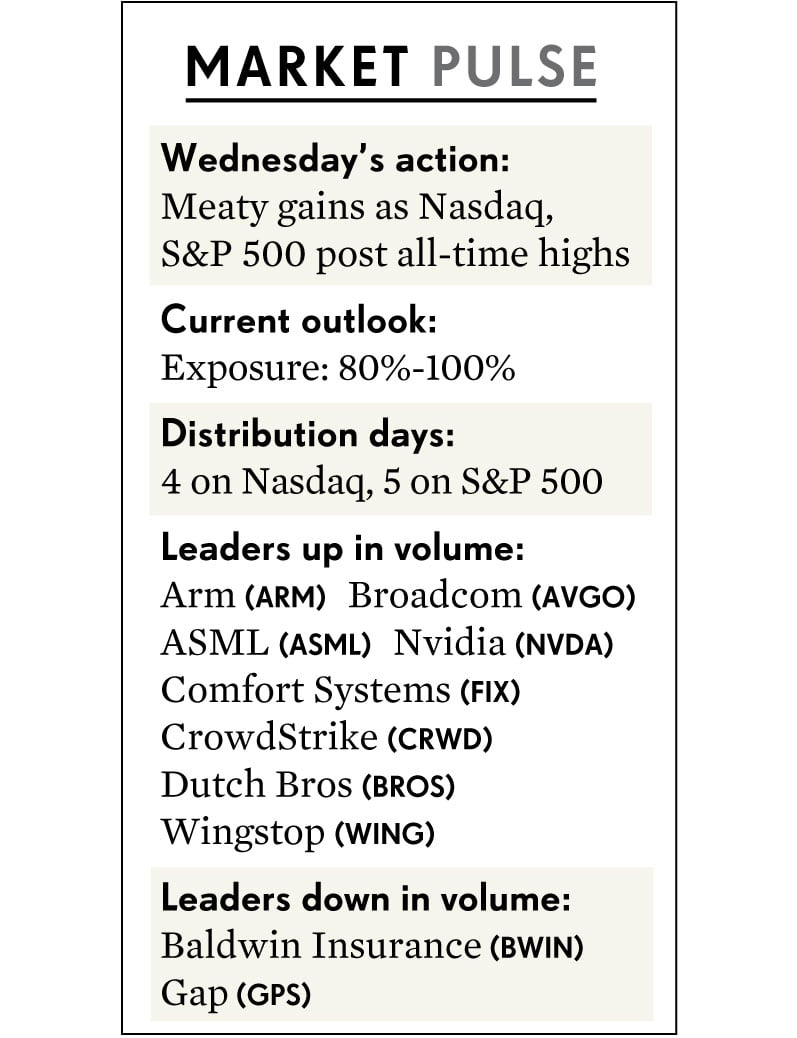
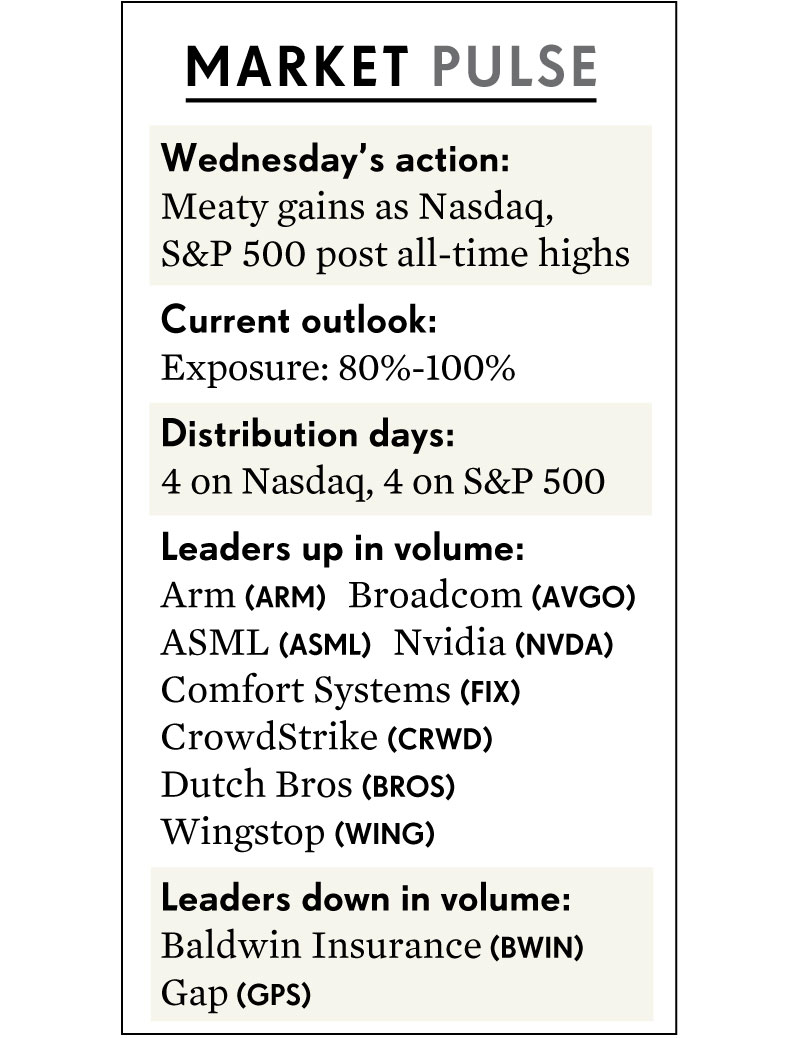
update

Changed region(s): [[0.4818, 0.4316, 0.7528, 0.4933]]

diff --git a/_columns/Stock_Of_the_Day/2024-06-06.md b/_columns/Stock_Of_the_Day/2024-06-06.md
@@ -1,0 +1,105 @@
+---
+layout: page
+title: >-
+  Chipotle, IBD Stock Of The Day, Flashes Buy Signal With Huge Split Ahead
+image: /assets/img/stock-of-the-day/2024-06-06.jpg
+date: 2024-06-06 17:01 -0700
+author: HARRISON MILLER
+---
+
+
+
+
+
+
+Chipotle stock is the [IBD Stock Of The Day](https://www.investors.com/research/ibd-stock-of-the-day/) for Thursday as it clears a trendline and extends a bounce from key support. Meanwhile, shareholders on Thursday are expected to approve a 50-for-1 stock split.
+
+
+
+
+**Chipotle Mexican Grill** ([CMG](https://research.investors.com/quote.aspx?symbol=CMG)) shareholders greenlit a 50-for-1 stock split at Thursday's annual meeting. The board of directors originally [announced the plan on March 19](https://ir.chipotle.com/2024-03-19-CHIPOTLE-BOARD-OF-DIRECTORS-APPROVES-50-FOR-1-STOCK-SPLIT) following its approval.
+
+
+CMG holders as of June 18 will receive 49 additional shares of Chipotle stock after market close on June 25. Chipotle stock will begin trading at a post-split basis on June 26.
+
+
+It will be Chipotle's first stock split in its 30-year history and one of the biggest splits in the history of the New York Stock Exchange. The NYSE's last 50-for-1 stock split was Berkshire Hathaway's all the way back in 2010, MarketWatch reported. Previously, Nasdaq-listed **Amazon.com** ([AMZN](https://research.investors.com/quote.aspx?symbol=AMZN)) completed a 20-for-1 split on June 6, 2022.
+
+
+[Stock splits](https://www.investors.com/how-to-invest/investors-corner/stock-splits-nvidia-amazon-stock-splits-benefit-or-hurt-a-stock/) spread the market value of a company across a greater number of shares, which results in a lower price point for the stock. The total market capitalization of the company remains unchanged after a stock split, but liquidity increases due to the issuance of more shares. A lower share price does make it easier to trade options.
+
+
+Chipotle Earnings, Outlook
+--------------------------
+
+
+Meanwhile, Chipotle will release second-quarter results on July 24, about a month after the split.
+
+
+FactSet analysts expect earnings growth to slow slightly after accelerating the last two quarters, with a 23% increase to $15.61 per share. Wall Street estimates sales jump 16% to $2.93 billion.
+
+
+[Chipotle on April 24](https://www.investors.com/news/chipotle-earnings-cmg-stock-buy-points/) cleared Wall Street estimates with a 27% earnings gain while revenue rose 14% to edge out forecasts. Comparable restaurant sales rose 7% during the quarter, driven by a 5.4% increase in transactions. The same-store sales growth beat estimates for a 5.4% increase.
+
+
+Chipotle guided 2024 comparable restaurant sales growth in the mid- to high-single-digit range, up from its February outlook of mid-single-digit growth. The company says it expects to open 285 to 310 new restaurants during the year, of which over 80% will have a Chipotlane drive-thru.
+
+
+For the year, FactSet predicts Chipotle earnings to increase 24% to $55.69 per share on 15% sales growth to $11.36 billion.
+
+
+Chipotle Stock Performance
+--------------------------
+
+
+
+CMG stock cleared a short [trendline](https://www.investors.com/how-to-invest/investors-corner/looking-for-an-earlier-entry-in-a-stock-learn-how-to-do-this/) Thursday as it continues to bounce off its [50-day moving average](https://www.investors.com/how-to-invest/investors-corner/what-is-the-50-day-moving-average-when-to-buy-or-sell-growth-stocks/) and 10-week line, [MarketSurge charts](https://get.investors.com/marketsurge/?artProdLink=MarketSurge) show. The pullback to test the [10-week line](https://www.investors.com/how-to-invest/investors-corner/how-to-buy-stocks-why-the-10-week-moving-average-offers-new-entry-points/) brought Chipotle stock almost to the top of a prior short consolidation, which wasn't quite long enough for a flat base.
+
+
+CMG stock is on track to form a [flat base](https://www.investors.com/how-to-invest/investors-corner/what-is-a-flat-base-skechers-stock-skx/) with a 3,260 [buy point](https://www.investors.com/how-to-invest/investors-corner/chart-reading-basics-how-a-buy-point-marks-a-time-of-opportunity/) after this week.
+
+
+IBD added Chipotle stock to [SwingTrader](https://www.investors.com/product/swingtrader/?artProdLink=Swingtrader) as a half position on June 5. CMG shares are trading above the SwingTrader entry of 3,146. The SwingTrader [buy zone](https://www.investors.com/how-to-invest/investors-corner/buy-zone-nvidia-stock/) extends to 3,208.92.
+
+
+Chipotle stock leads the Retail-Restaurants Group according to the [IBD Stock Checkup](http://research.investors.com/stock-checkup/). The Retail-Restaurants group gained 22.8% this year and ranks 17th out of the 197 industry groups tracked by IBD.
+
+
+CMG shares have rallied nearly 40% this year as restaurant stocks leapt.
+
+
+**Cava Group** ([CAVA](https://research.investors.com/quote.aspx?symbol=CAVA)) stock doubled in 2024, with the fast-casual chain hitting a record high of 96.93 on May 30 following earnings. Cava, sometimes called the "Mediterranean Chipotle," fell nearly 7% Thursday amid some big insider sales.
+
+
+**Wingstop** ([WING](https://research.investors.com/quote.aspx?symbol=WING)) is also trading near all-time highs after soaring more than 50% in 2024. ING stock sank x% after flashing a buy signal Wednesday.
+
+
+**Texas Roadhouse** ([TXRH](https://research.investors.com/quote.aspx?symbol=TXRH)) is extended above a flat-base buy zone and advanced nearly 39% this year. Chili's operator **Brinker International** ([EAT](https://research.investors.com/quote.aspx?symbol=EAT)) has trended higher since its April 30 earnings report and is up 67% year to date. Both TXRH and EAT fell slightly on Thursday.
+
+
+Chipotle stock has a perfect 99 [Composite Rating](https://www.investors.com/how-to-invest/investors-corner/how-to-research-growth-stocks/). The Composite Rating combines various technical indicators into one easy-to-read score. CMG has a 98 [EPS Rating](https://www.investors.com/how-to-invest/investors-corner/eps-rating-is-key-to-picking-great-stocks/). Chipotle's [relative strength line](https://www.investors.com/how-to-invest/investors-corner/a-stock-breakout-specialty-tool-the-relative-strength-line/) is off its late April highs but the stock still has a robust 94 [RS Rating](https://www.investors.com/how-to-invest/investors-corner/relative-strength-rating-stock-chart-analysis-helps-pick-outstanding-growth-stocks/).
+
+
+*You can follow Harrison Miller for more stock news and updates on X/Twitter [@IBD\_Harrison](https://twitter.com/IBD_Harrison)*
+
+
+**YOU MAY ALSO LIKE:**
+
+
+[Best Growth Stocks To Buy And Watch: See Updates To IBD Stock Lists](https://www.investors.com/research/best-growth-stocks-buy-watch-ibd-stock-lists/)
+
+
+[Looking For The Next Big Stock Market Winners? Start With These 3 Steps](https://www.investors.com/research/how-to-invest-in-the-stock-market-start-with-a-simple-routine/)
+
+
+[Join IBD Live And Learn Top Chart Reading And Trading Techniques From Pros](https://shop.investors.com/offer/splashresponsive.aspx?id=IBD-Live&intcode=invstcntnartcls%7Ccms%7Cibdlive%7C2020%7C07%7Cibdlive%7Cna%7C%7C727112&src=A00433A)
+
+
+[Learn How To Time The Market With IBD's ETF Market Strategy](https://www.investors.com/market-trend/ibds-etf-market-strategy/ibds-etf-market-strategy/)
+
+
+[Market Holds Ahead Of Jobs Data, GME Roars; 4 Stocks In Buy Areas](https://www.investors.com/market-trend/stock-market-today/dow-jones-futures-jobs-report-nvidia-gamestop-roaring-kitty/)
+
+
+
+

diff --git a/_columns/The_Big_Picture/2024-06-06.md b/_columns/The_Big_Picture/2024-06-06.md
@@ -1,0 +1,133 @@
+---
+layout: content
+title: >-
+  S&P 500, Nasdaq Reverse From New Highs, As Does Nvidia
+date: 2024-06-06 17:33 -0700
+author: SCOTT LEHTONEN
+---
+
+
+
+
+
+The stock market ended narrowly mixed Thursday, as the S&P 500 and Nasdaq reversed slightly lower after hitting new highs. Up next, Wall Street braces for Friday's employment report for May.
+
+
+
+
+The Dow Jones Industrial Average rose 0.2%, extending a win streak to three sessions. The S&P 500 and Nasdaq composite ended barely lower after hitting more record highs earlier in the day. But the small-cap Russell 2000 dropped 0.7%. It closed just above the 50-day moving average, where the index has been finding support.
+
+
+Volume fell on the Nasdaq and rose on the New York Stock Exchange from Wednesday's session.
+
+
+The Labor Department's employment report will be announced before the stock market opens Friday. Economists expect nonfarm payrolls to rise by 188,000 in May, up from April's 175,000 increase, per Econoday estimates. The unemployment rate is expected to hold steady at 3.9%.
+
+
+
+
+---
+
+
+[**Want To Get Quick Profits And Avoid Big Losses? Try IBD SwingTrader**](https://www.investors.com/product/swingtrader/?artProdLink=Swingtrader)
+
+
+
+
+---
+
+
+Dow Jones Movers: Salesforce And Amazon Rally
+---------------------------------------------
+
+
+In the Dow Jones index, **Salesforce** ([CRM](https://research.investors.com/quote.aspx?symbol=CRM)) and **Amazon.com** ([AMZN](https://research.investors.com/quote.aspx?symbol=AMZN)) were the biggest gainers, with advances of 2.6% and 2%, respectively. Salesforce alone added nearly 41 points to the Dow's 78-point gain. Amazon shares regained their 50-day line.
+
+
+[Among Magnificent Seven stocks](https://www.investors.com/research/magnificent-seven-stocks-to-buy-and-and-watch/), **Nvidia** ([NVDA](https://research.investors.com/quote.aspx?symbol=NVDA)) reversed 1.1% lower after briefly hitting more record highs. Shares are more than 20% above a 974 alternate buy point following the May 23 breakaway gap. CEO Jensen Huang [disclosed plans to sell some of his stock](https://www.investors.com/research/nvda-stock-is-nvidia-a-buy/), part of a plan previously announced.
+
+
+After Thursday's reversal, investors who bought at that entry or the 922.20 handle buy point may consider taking profits in the [IBD Leaderboard](https://www.investors.com/product/leaderboard/?artProdLink=Leaderboard) stock.
+
+
+The Innovator IBD 50 ETF ([FFTY](https://research.investors.com/quote.aspx?symbol=FFTY)) fell 1.3% to give back a part of Wednesday's 3.6% gain. In the [IBD 50](https://research.investors.com/stock-lists/ibd-50/), **Dutch Bros** ([BROS](https://research.investors.com/quote.aspx?symbol=BROS)) climbed 0.6% to move further out of buy range beyond a 36.17 cup-base entry. The operator of drive-through coffee shops is on [IBD SwingTrader](https://www.investors.com/product/swingtrader/?artProdLink=Swingtrader).
+
+
+Stock Market Today: What To Do Now
+----------------------------------
+
+
+Following Wednesday's advance to record highs, IBD boosted its recommended market exposure range to 80%-100%. That means investors should be buying new breakouts or using follow-on buy areas to raised exposure to market leaders.
+
+
+But don't get complacent. Keep an eye out for sell signals on individual stocks, like round trips back to buy points or sharp breaks of the 50-day line.
+
+
+Just as we gradually increase exposure as the market recovers from a downtrend, we also incrementally reduce exposure as the market becomes overheated. Signs calling for risk reduction can include factors like stocks and indexes getting too far above a moving average.
+
+
+The Nasdaq and S&P 500 have four distribution days over the past five weeks, although the earliest (a May 7 stalling day) is due to expire next week. (Wednesday's Market Pulse incorrectly stated the S&P 500 had five distribution days. Just like the Nasdaq, it has four days of institutional selling.)
+
+
+
+
+---
+
+
+**[Join IBD experts as they analyze leading stocks in the current stock market action on IBD Live](https://shop.investors.com/offer/splashresponsive.aspx?id=IBD-Live&intcode=invstcntnartcls%7Ccms%7Cibdlive%7C2020%7C07%7Cibdlive%7Cna%7C%7C727112&src=A00433A)**
+
+
+
+
+---
+
+
+S&P 500 Member Booking Eyes Buy Point
+-------------------------------------
+
+
+**ASML** ([ASML](https://research.investors.com/quote.aspx?symbol=ASML)), **Booking Holdings** ([BKNG](https://research.investors.com/quote.aspx?symbol=BKNG)), **Novo Nordisk** ([NVO](https://research.investors.com/quote.aspx?symbol=NVO)) and **Spotify** ([SPOT](https://research.investors.com/quote.aspx?symbol=SPOT)) are stocks to watch as they trade near buy points.
+
+
+[ASML stock](https://www.investors.com/research/ibd-stock-of-the-day/asml-stock-tsmc-buys-high-na-euv-chip-gear/) hit an early-entry [buy point](https://www.investors.com/how-to-invest/investors-corner/chart-reading-basics-how-a-buy-point-marks-a-time-of-opportunity/) of 992.88 from a handle Wednesday. The [5% buy zone](https://www.investors.com/how-to-invest/investors-corner/buy-zone-gives-investors-chance-to-buy-top-stocks-beyond-breakout/) extends to 1,042.52. Now, shares are rapidly nearing another buy point at 1,056.34.
+
+
+S&P 500 component Booking lost nearly 0.6% Thursday, trading just shy of a 3,853 buy point in a cup with handle.
+
+
+Novo Nordisk rose 1%, extending a win streak to six sessions. Shares are squarely in buy range past a 137.22 cup-with-handle buy trigger that runs up to 144.08. The most recent formation is a late-stage base, which carries more risk and less upside than earlier-stage formations.
+
+
+Spotify shares closed just above the 319.30 buy point of a flat base, according to [IBD MarketSurge](https://get.investors.com/marketsurge/?artProdLink=MarketSurge) pattern recognition.
+
+
+[View the General Market Indicators chart page here](https://www.investors.com/wp-content/uploads/2024/06/DailyGMI_060624.pdf).
+
+
+*Be sure to follow Scott Lehtonen on X/Twitter at [@IBD\_SLehtonen](https://twitter.com/IBD_SLehtonen) for more on the Dow Jones Industrial Average and stock market news.*
+
+
+
+
+**YOU MAY ALSO LIKE:**
+
+
+[Check Out IBD's New Exposure Levels To Help You Stay In Step With The Market Trend](https://www.investors.com/how-to-invest/investors-corner/risk-management-in-the-stock-market-how-much-money-to-invest-now/)
+
+
+[Top Growth Stocks To Buy And Watch In Today's Stock Market And Dow Jones](https://www.investors.com/stock-lists/stocks-to-watch-top-rated-ipos-big-caps-and-growth-stocks/)
+
+
+[Learn How To Time The Market With IBD's ETF Market Strategy](https://www.investors.com/market-trend/ibds-etf-market-strategy/ibds-etf-market-strategy/)
+
+
+[Find The Best Long-Term Investments With IBD Long-Term Leaders](https://www.investors.com/research/ibd-long-term-leaders-screen)
+
+
+[Spot Buy Points And Sell Signals With MarketSurge Pattern Recognition](https://get.investors.com/marketsurge/?artProdLink=MarketSurge)
+
+
+
+
+
+

diff --git a/_columns/The_Big_Picture/2024-06-05.md b/_columns/The_Big_Picture/2024-06-05.md
@@ -58,7 +58,7 @@ Light Moves In Blue Chips
 -------------------------
 
 
-![](https://www.investors.com/wp-content/uploads/2024/06/MP060524.jpg)In contrast, the Dow Jones Industrial Average, chock-full of blue chips that are not necessarily growing very fast, couldn't seem to get out of its own way.
+![](https://www.investors.com/wp-content/uploads/2024/06/MP060524--230x300.jpg)In contrast, the Dow Jones Industrial Average, chock-full of blue chips that are not necessarily growing very fast, couldn't seem to get out of its own way.
 
 
 A gain of less than 0.3% reflected struggles by names such as **Walt Disney** ([DIS](https://research.investors.com/quote.aspx?symbol=DIS)), **Johnson & Johnson** ([JNJ](https://research.investors.com/quote.aspx?symbol=JNJ)), **Cisco Systems** ([CSCO](https://research.investors.com/quote.aspx?symbol=CSCO)) and **McDonald's** ([MCD](https://research.investors.com/quote.aspx?symbol=MCD)), a [short-sale play on IBD Leaderboard](https://leaderboard.investors.com/#/leaders/shortsales). All four stocks joined five other Dow components with losses of 1 point or more.
